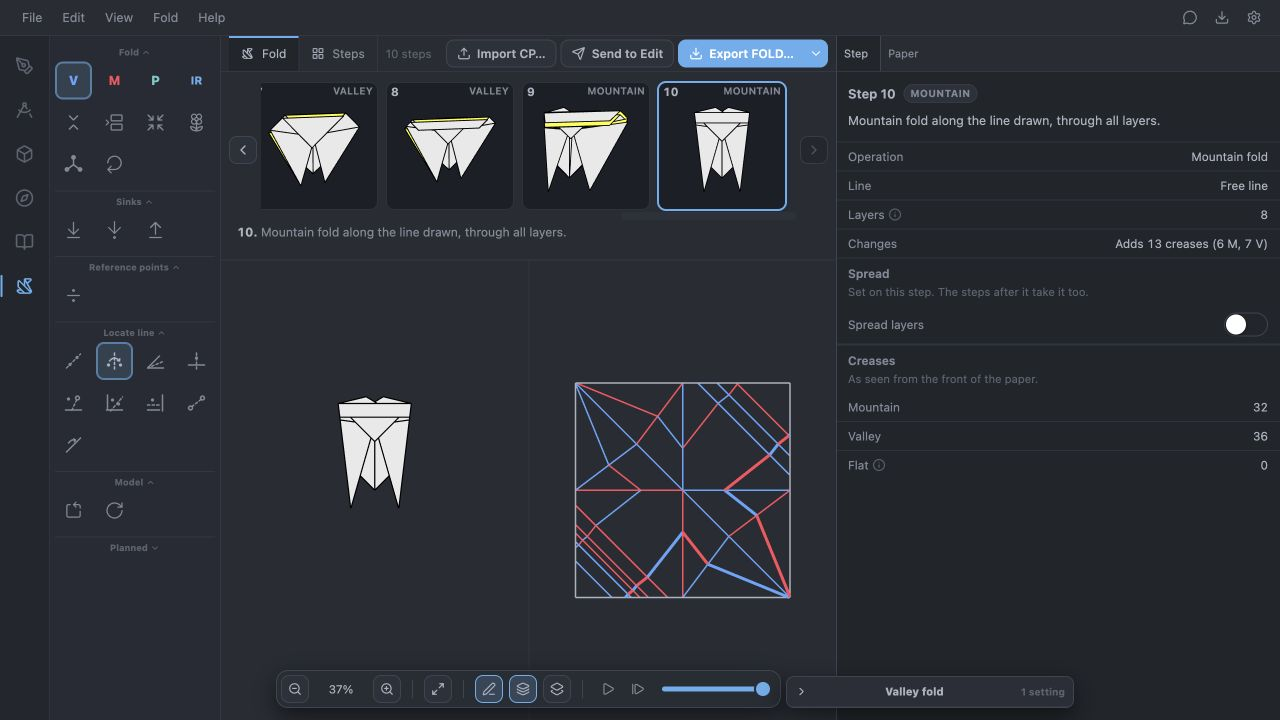
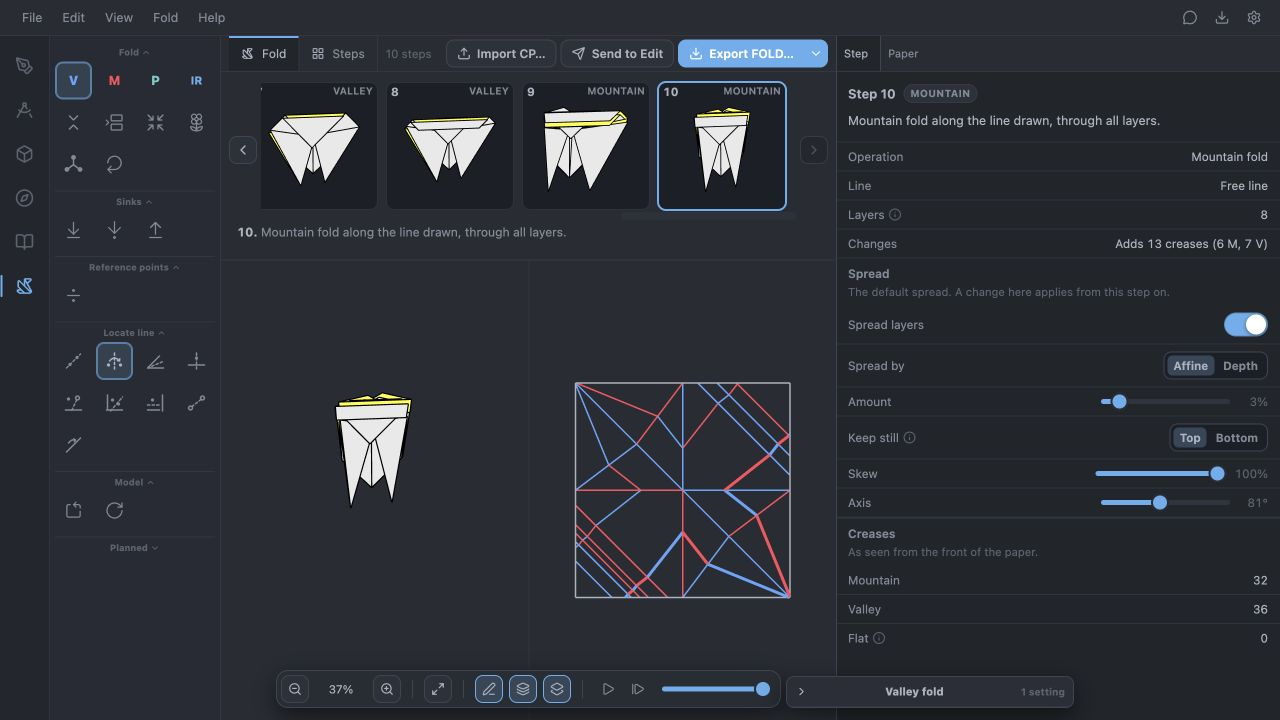
Clarify native Fold project handoff and verify automatic landing

diff --git a/research/2026-10-13-origami-fold-trials/viewer.html b/research/2026-10-13-origami-fold-trials/viewer.html
@@ -16,6 +16,11 @@ await useWorkspaceStore.getState().initEngine();
 const text = await (await fetch(fixtureUrl)).text();
 const opened = await useWorkspaceStore.getState().openProject({openTextFile: async () => ({text,name:filename,path:null})}, {confirmDiscard:false});
 if (!opened) throw new Error(JSON.stringify(useWorkspaceStore.getState().error));
-history.replaceState(null, '', '/fold');
+// Follow the loader's own workspace decision, just like desktop open-with.
+// Deliberately do not force /fold: that would hide a native-file landing bug.
+const { currentWorkspacePath } = await import('/src/routing/landing.ts');
+const destination = currentWorkspacePath();
+if (destination !== '/fold') throw new Error('Native Fold project landed on ' + destination);
+history.replaceState(null, '', destination);
 await import('/src/main.tsx');
 </script></body></html>

diff --git a/research/2026-10-13-origami-fold-trials/REPORT.md b/research/2026-10-13-origami-fold-trials/REPORT.md
@@ -6,7 +6,9 @@
 
 Three recognizable flat models are saved: cicada, swan, and crane. The swan and crane use alternate reverse-fold routes after the tutorial-order swivel attempts failed. The heart and masu box are saved at their verified stopping points. These are editable native sequences, not authored diagrams.
 
-Open an individual `.osf` in this branch of Ori Studio and select **Fold**. The `.fold` files alongside them contain the sheet and every subsequent folded state. Counts below exclude rotations and turnovers; the native files retain those too.
+**For the Fold workspace, use File → Open and choose an individual `.osf` below. It opens directly in Fold with its editable step history.** The native projects contain fold operations and their choices, with no Edit crease-pattern document.
+
+The `.fold` files are interchange exports: opening them produces an Edit crease pattern plus separate folded figures, as seen in the screenshot reported after the first handoff. They have been moved out of `models/` into `interchange-exports/` to prevent that confusion. They are not the native authoring sequences. Counts below exclude rotations and turnovers; the `.osf` files retain those too.
 
 | Design / tutorial | Native sequence | Fold steps | Result |
 | --- | --- | ---: | --- |
@@ -29,7 +31,7 @@ Open an individual `.osf` in this branch of Ori Studio and select **Fold**. The 
 
 One initial diagonal fold was authored directly in the canvas with Axiom 2 and Enter. The multi-step models were then constructed with the unchanged public Fold WASM API, saved as ordinary operation/choice sequences, and reopened in the workspace. This tests what the engine can express and the UI can replay; it is not an end-to-end mouse usability test of every tool. No fabricated final geometry or imported final state substitutes for the steps.
 
-The embedded browser's native File System Access picker did not yield an automatable chooser. `viewer.html` is a development-only fixture loader using the ordinary `openProject` reader and app entry point. It can open `?model=cicada`, `swan`, `heart`, `box`, or `crane`; it does not change product source. The crane's square/petal-base construction also reuses operation inputs from the repository's existing petal-fold example, replayed from a blank sheet.
+The embedded browser's native File System Access picker did not yield an automatable chooser. `viewer.html` is a development-only fixture loader using the ordinary `openProject` reader and app entry point. It can open `?model=cicada`, `swan`, `heart`, `box`, or `crane`; it does not change product source. After the handoff correction it follows `currentWorkspacePath()` from the loader's actual decision and fails if the native file does not land in Fold; it no longer forces `/fold`. The crane's square/petal-base construction also reuses operation inputs from the repository's existing petal-fold example, replayed from a blank sheet.
 
 ## Trial ledger
 
@@ -90,7 +92,7 @@ Usability observations are narrower than engine coverage: the welcome page did n
 
 - Rebuilt `oristudio-fold-wasm` before running these trials.
 - All **68 native nodes / 56 fold operations** in the delivered paths replayed in fresh engines. Canonical hashes matched at every node; **73 FOLD frames**, including five blank sheets, were exported.
-- Reopened all five delivered model paths in the app and checked their final folded silhouettes and history. Playback was exercised for the cicada and swan head.
+- Reopened all five delivered `.osf` files using the normal project loader and its own landing decision: each selected `/fold` automatically and showed its saved history (10, 8, 7, 12, and 19 folds respectively). No forced workspace selection was used in this follow-up check. Checked final folded silhouettes and history. Playback was exercised for the cicada and swan head.
 - Existing focused tests: `foldSequenceFile.test.ts`, `foldSequence.wasm.test.ts`, and `foldEngineIo.wasm.test.ts`: **42 passed**.
 - `git diff --check` run on research changes. Full lint/typecheck/Rust workspace tests were not run: no product code changed; validation targeted native document reading, engine replay, and export.
 
@@ -104,7 +106,7 @@ node research/2026-10-13-origami-fold-trials/swan-alternative.mjs
 node research/2026-10-13-origami-fold-trials/build-deliverables.mjs
 ```
 
-The first four scripts preserve experiments and logs in this directory. Their root `origami-trials.osf` is a transient probe bundle. The final script writes the reviewed deliverables under **models/** and verifies native-file replay plus FOLD frame counts. `validation.json` is the machine-readable result.
+The first four scripts preserve experiments and logs in this directory. Their root `origami-trials.osf` is a transient probe bundle. The final script writes native Fold projects under **models/** and FOLD exports under **interchange-exports/**, then verifies native-file replay plus FOLD frame counts. `validation.json` is the machine-readable result.
 
 ## Next investigations
 
